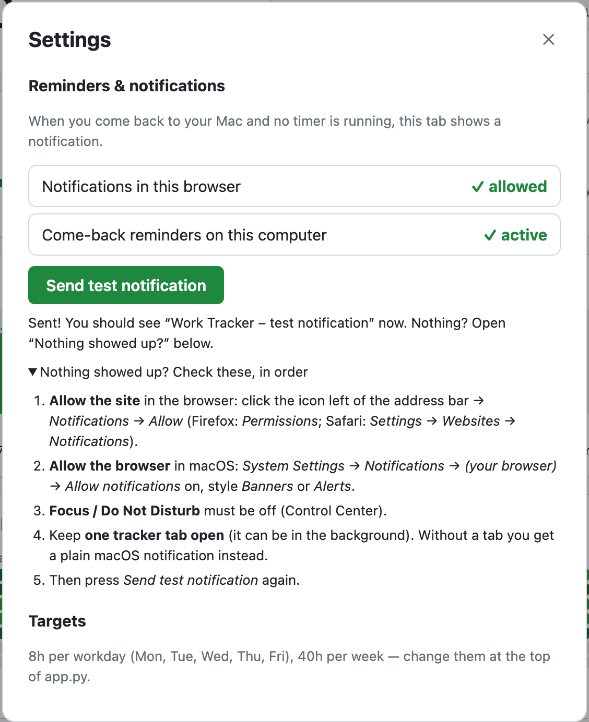
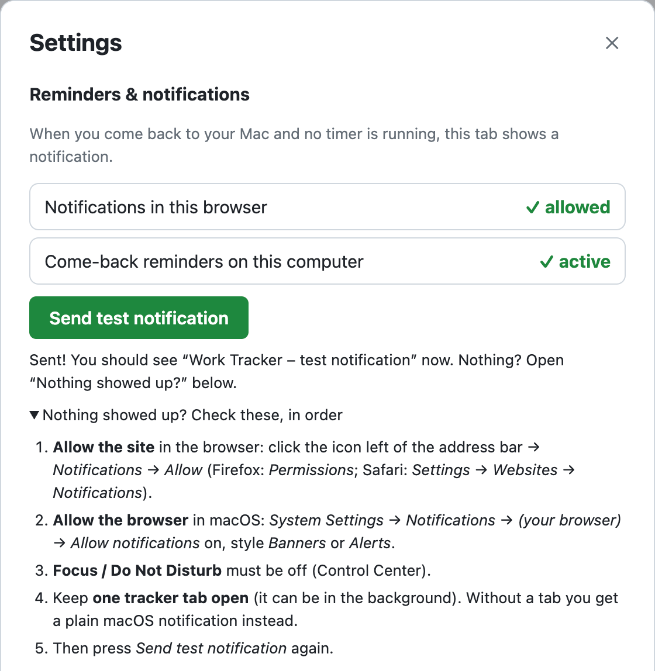
Work goals you can change from a date on; past days keep theirs
- targets table: one row per goal change (valid_from, daily seconds,
  workdays); the defaults in app.py apply before the first change.
- Every total uses the goal valid on that day: today, this week (sum of
  the week's days, so mid-week changes split correctly), overtime balance.
- Settings → Work goal: hours per week + workdays + start date (today or
  later), planned changes can be cancelled. GET/PUT /api/goals,
  DELETE /api/goals/<date>.
- 'This week' tile and balance hint no longer hard-code 40 h / 8 h.
- README: 'Change your work goal' section, updated tiles, config, API.

Changed region(s): [[0.0, 0.0, 1.0, 1.0]]

diff --git a/static/app.js b/static/app.js
@@ -120,7 +120,8 @@ function renderStatus() {
   // Week
   const weekSec = status.week_seconds + extra;
   $("week-worked").textContent = fmtDur(weekSec);
-  $("week-bar").style.width = Math.min(100, (weekSec / status.weekly_target) * 100) + "%";
+  $("week-target").textContent = hours(status.weekly_target);
+  $("week-bar").style.width = status.weekly_target ? Math.min(100, (weekSec / status.weekly_target) * 100) + "%" : "0";
   const weekLeft = status.weekly_target - weekSec;
   $("week-remaining").textContent = weekLeft > 0
     ? `${fmtDur(weekLeft)} left this week`
@@ -532,13 +533,72 @@ function renderSettings() {
   $("enable-notify").hidden = perm !== "default";
   // Nudge until notifications are set up.
   $("settings-btn").classList.toggle("attention", notifySupported && perm !== "granted");
-  if (status) {
-    const daily = Math.max(...status.week_days.map((d) => d.target));
-    const days = status.week_days.map((d, i) => (d.target ? DAY_NAMES[i] : null)).filter(Boolean);
-    $("targets").textContent = `${fmtDur(daily).replace(" 00m", "")} per workday (${days.join(", ")}), `
-      + `${fmtDur(status.weekly_target).replace(" 00m", "")} per week — change them at the top of app.py.`;
-  }
 }
+
+// ------------------------------------------------------------ settings (work goal)
+
+/** "8h", "7h 30m" */
+const hours = (sec) => fmtDur(sec).replace(" 00m", "");
+const goalText = (g) => `${hours(g.daily_seconds * g.workdays.length)} per week · `
+  + `${g.workdays.map((d) => DAY_NAMES[d]).join(", ")} · ${hours(g.daily_seconds)} per workday`;
+
+$("goal-days").innerHTML = DAY_NAMES.map((n, i) =>
+  `<label><input type="checkbox" value="${i}"> ${n}</label>`).join("");
+
+async function loadGoals() {
+  const goals = await api("GET", "/api/goals");
+  const today = status.today;
+  const current = goals.filter((g) => !g.valid_from || g.valid_from <= today).pop();
+  $("goal-current").innerHTML = `<b>Now:</b> ${goalText(current)}`;
+  const planned = $("goal-planned");
+  planned.innerHTML = "";
+  for (const g of goals.filter((g) => g.valid_from > today)) {
+    const li = document.createElement("li");
+    li.innerHTML = `<span>From ${fmtLongDate(parseYmd(g.valid_from))}: ${goalText(g)}</span>`;
+    const cancel = document.createElement("button");
+    cancel.type = "button";
+    cancel.className = "btn link";
+    cancel.textContent = "Cancel";
+    cancel.onclick = async () => { await api("DELETE", `/api/goals/${g.valid_from}`); await goalsChanged(); };
+    li.appendChild(cancel);
+    planned.appendChild(li);
+  }
+  // Prefill the form with the current goal, starting today.
+  $("goal-hours").value = (current.daily_seconds * current.workdays.length) / 3600;
+  $("goal-days").querySelectorAll("input").forEach((c) => (c.checked = current.workdays.includes(Number(c.value))));
+  $("goal-from").value = $("goal-from").min = today;
+  $("goal-error").textContent = "";
+  goalHint();
+}
+
+function goalHint() {
+  const days = $("goal-days").querySelectorAll("input:checked").length;
+  const h = Number($("goal-hours").value);
+  $("goal-hint").textContent = days && h
+    ? `= ${hours((h * 3600) / days)} per workday. Applies from the start date on — past days keep the goal they had.`
+    : "Pick the hours and at least one workday.";
+}
+$("goal-form").addEventListener("input", goalHint);
+
+async function goalsChanged() {
+  await refreshAll();  // today, week and overtime use the new goal
+  await loadGoals();
+}
+
+$("goal-form").addEventListener("submit", async (e) => {
+  e.preventDefault();
+  try {
+    await api("PUT", "/api/goals", {
+      valid_from: $("goal-from").value,
+      weekly_hours: Number($("goal-hours").value),
+      workdays: [...$("goal-days").querySelectorAll("input:checked")].map((c) => Number(c.value)),
+    });
+    await goalsChanged();
+    $("goal-hint").textContent = "Saved ✓ " + $("goal-hint").textContent;
+  } catch (err) {
+    $("goal-error").textContent = err.message;
+  }
+});
 
 async function enableNotifications() {
   if (notifySupported && Notification.permission === "default") await Notification.requestPermission();
@@ -548,6 +608,7 @@ async function enableNotifications() {
 
 $("settings-btn").addEventListener("click", () => {
   renderSettings();
+  loadGoals();
   $("test-result").textContent = "";
   $("settings").showModal();
 });

diff --git a/static/index.html b/static/index.html
@@ -37,14 +37,14 @@
       </div>
       <div class="card stat">
         <div class="label">This week</div>
-        <div class="value"><span id="week-worked">0h 00m</span> <span class="muted">/ 40h</span></div>
+        <div class="value"><span id="week-worked">0h 00m</span> <span class="muted">/ <span id="week-target">40h</span></span></div>
         <div class="bar"><div id="week-bar"></div></div>
         <div class="muted small" id="week-remaining"></div>
       </div>
       <div class="card stat">
         <div class="label">Overtime balance</div>
         <div class="value" id="balance">±0h 00m</div>
-        <div class="muted small">All days before today vs. 8h per workday</div>
+        <div class="muted small">All days before today vs. your work goal</div>
       </div>
       <div class="card stat">
         <div class="label">Overtime incl. today</div>
@@ -122,8 +122,20 @@
       </ol>
     </details>
 
-    <h3>Targets</h3>
-    <p class="small muted" id="targets"></p>
+    <h3>Work goal</h3>
+    <p class="small" id="goal-current"></p>
+    <ul id="goal-planned" class="checklist"></ul>
+    <form id="goal-form" class="goal-form">
+      <label>Hours per week <input type="number" id="goal-hours" min="1" max="168" step="0.25" required></label>
+      <fieldset>
+        <legend>Workdays</legend>
+        <div id="goal-days"></div>
+      </fieldset>
+      <label>Starting <input type="date" id="goal-from" required></label>
+      <button class="btn start">Save goal</button>
+    </form>
+    <p class="small muted" id="goal-hint"></p>
+    <p class="small error" id="goal-error"></p>
   </dialog>
 
   <div id="tooltip" class="tooltip" hidden></div>

diff --git a/static/style.css b/static/style.css
@@ -209,3 +209,13 @@ input, select {
 .settings-actions { display: flex; gap: 8px; flex-wrap: wrap; }
 #test-result { min-height: 1.5em; margin: 8px 0; }
 #notify-help ol { padding-left: 20px; margin: 8px 0; display: grid; gap: 4px; }
+.goal-form { display: grid; gap: 10px; margin: 8px 0 4px; }
+.goal-form label { display: flex; align-items: center; gap: 10px; }
+.goal-form input[type="number"] { width: 90px; }
+.goal-form input[type="date"] { width: auto; }
+.goal-form fieldset { border: 1px solid var(--border); border-radius: 8px; padding: 6px 12px 10px; margin: 0; }
+.goal-form legend { padding: 0 4px; font-size: 13px; color: var(--muted); }
+#goal-days { display: flex; flex-wrap: wrap; gap: 4px 14px; }
+#goal-days label { gap: 4px; }
+#goal-days input { width: auto; }
+.goal-form .btn { justify-self: start; }

diff --git a/app.py b/app.py
@@ -16,8 +16,8 @@ from flask import Flask, g, jsonify, request
 BASE_DIR = os.path.dirname(os.path.abspath(__file__))
 DB_PATH = os.environ.get("TRACKER_DB", os.path.join(BASE_DIR, "tracker.db"))
 
+# Default work goal; it applies to all days before the first change made in Settings → Work goals.
 DAILY_TARGET = 8 * 3600       # seconds per workday
-WEEKLY_TARGET = 40 * 3600     # seconds per week
 WORKDAYS = {0, 1, 2, 3, 4}    # Monday..Friday
 
 app = Flask(__name__, static_folder="static", static_url_path="")
@@ -56,6 +56,12 @@ def init_db():
                 start_time  TEXT NOT NULL,          -- last keyboard/trackpad input before leaving
                 end_time    TEXT NOT NULL,          -- when you were back
                 reason      TEXT NOT NULL           -- sleep | lock | display-off
+            );
+            -- Work goal changes: from valid_from on, daily_seconds on each of the workdays.
+            CREATE TABLE IF NOT EXISTS targets (
+                valid_from    TEXT PRIMARY KEY,     -- YYYY-MM-DD
+                daily_seconds INTEGER NOT NULL,
+                workdays      TEXT NOT NULL         -- weekday digits, Monday = 0, e.g. "01234"
             );
             """
         )
@@ -114,13 +120,23 @@ def daily_totals(first: date, last: date) -> dict:
     return totals
 
 
-def expected_seconds(first: date, last: date) -> int:
-    """Target seconds for all workdays in [first, last]."""
-    if last < first:
-        return 0
-    days = (last - first).days + 1
-    workdays = sum(1 for i in range(days) if (first + timedelta(days=i)).weekday() in WORKDAYS)
-    return workdays * DAILY_TARGET
+def goal_table() -> list:
+    """[(valid_from, daily_seconds, workdays)], oldest first; the defaults apply before any change."""
+    rows = get_db().execute("SELECT * FROM targets ORDER BY valid_from").fetchall()
+    return [(date.min, DAILY_TARGET, WORKDAYS)] + [
+        (parse_day(r["valid_from"]), r["daily_seconds"], {int(c) for c in r["workdays"]}) for r in rows
+    ]
+
+
+def day_target(day: date, table: list) -> int:
+    """Target seconds for one day under the goal that was valid on that day."""
+    _, daily, workdays = next(g for g in reversed(table) if g[0] <= day)
+    return daily if day.weekday() in workdays else 0
+
+
+def expected_seconds(first: date, last: date, table: list) -> int:
+    """Target seconds for all days in [first, last]."""
+    return sum(day_target(first + timedelta(days=i), table) for i in range((last - first).days + 1))
 
 
 def running_session():
@@ -154,7 +170,10 @@ def status():
     week = daily_totals(monday, monday + timedelta(days=6))
     today_s = week.get(today.isoformat(), 0)
     week_s = sum(week.values())
-    today_target = DAILY_TARGET if today.weekday() in WORKDAYS else 0
+    goals = goal_table()
+    today_target = day_target(today, goals)
+    week_targets = [day_target(monday + timedelta(days=i), goals) for i in range(7)]
+    weekly_target = sum(week_targets)
 
     # Overtime balance: everything worked before today vs. target before today.
     first_row = db.execute("SELECT MIN(start_time) FROM sessions").fetchone()[0]
@@ -166,25 +185,25 @@ def status():
         yesterday = today - timedelta(days=1)
         if first_day <= yesterday:
             worked = sum(daily_totals(first_day, yesterday).values())
-            balance = worked - expected_seconds(first_day, yesterday)
+            balance = worked - expected_seconds(first_day, yesterday, goals)
 
     run = running_session()
     return jsonify({
         "now": fmt(datetime.now()),
         "today": today.isoformat(),
         "daily_target": today_target,
-        "weekly_target": WEEKLY_TARGET,
+        "weekly_target": weekly_target,
         "today_seconds": today_s,
         "week_seconds": week_s,
         "today_remaining": max(0, today_target - today_s),
-        "week_remaining": max(0, WEEKLY_TARGET - week_s),
+        "week_remaining": max(0, weekly_target - week_s),
         "balance_seconds": balance,
         "first_year": first_year,
         "week_days": [
             {
                 "date": (monday + timedelta(days=i)).isoformat(),
                 "seconds": week.get((monday + timedelta(days=i)).isoformat(), 0),
-                "target": DAILY_TARGET if i in WORKDAYS else 0,
+                "target": week_targets[i],
             }
             for i in range(7)
         ],
@@ -193,6 +212,55 @@ def status():
         "reminder_kind": reminder_kind,
         "watcher": watcher_running,
     })
+
+
+@app.get("/api/goals")
+def get_goals():
+    """All goal periods: the defaults (valid_from null) and every change, oldest first."""
+    return jsonify([
+        {"valid_from": None if start == date.min else start.isoformat(), "daily_seconds": daily,
+         "workdays": sorted(workdays)}
+        for start, daily, workdays in goal_table()
+    ])
+
+
+@app.put("/api/goals")
+def set_goal():
+    """New goal from valid_from (today or later) on. Past days keep the goal they had."""
+    data = request.get_json(silent=True) or {}
+    try:
+        start = parse_day(data["valid_from"])
+        workdays = sorted({int(d) for d in data["workdays"]})
+        weekly = float(data["weekly_hours"])
+    except (KeyError, TypeError, ValueError):
+        return bad_request("valid_from (YYYY-MM-DD), weekly_hours and workdays (0 = Monday) are required.")
+    if start < date.today():
+        return bad_request("Goals can only change from today on — past days keep the goal they had.")
+    if not workdays or not all(0 <= d <= 6 for d in workdays):
+        return bad_request("Pick at least one workday.")
+    daily = round(weekly * 3600 / len(workdays))
+    if not 0 < daily <= 24 * 3600:
+        return bad_request("That's not a possible number of hours.")
+    db = get_db()
+    db.execute("INSERT OR REPLACE INTO targets VALUES (?, ?, ?)",
+               (start.isoformat(), daily, "".join(map(str, workdays))))
+    db.commit()
+    return get_goals()
+
+
+@app.delete("/api/goals/<valid_from>")
+def delete_goal(valid_from):
+    """Cancel a goal change that hasn't started yet."""
+    try:
+        start = parse_day(valid_from)
+    except ValueError:
+        return bad_request("Use YYYY-MM-DD.")
+    if start <= date.today():
+        return bad_request("Only changes that start in the future can be cancelled.")
+    db = get_db()
+    db.execute("DELETE FROM targets WHERE valid_from = ?", (valid_from,))
+    db.commit()
+    return get_goals()
 
 
 @app.post("/api/start")

diff --git a/README.md b/README.md
@@ -15,7 +15,7 @@
 </p>
 
 A small, self-hosted work-time tracker. Start and stop a timer, see how much you've worked today and
-this week against an 8 h / 40 h target, keep an overtime balance, and browse your history in a
+this week against your work goal (40 h a week by default — change it any time), keep an overtime balance, and browse your history in a
 GitHub-style heatmap. On macOS it can also start at login, remind you to start the timer when you
 come back to your laptop, and live in the menu bar.
 
@@ -33,6 +33,7 @@ Everything runs locally: one Python process, one SQLite file, no accounts, no cl
   6. [Menu bar item](#step-6--menu-bar-item-macos-optional) *(macOS, optional)*
 - [Daily use](#daily-use)
   - [Track your time](#track-your-time) · [Read your stats](#read-your-stats) ·
+    [Change your work goal](#change-your-work-goal) ·
     [Fix and add entries](#fix-and-add-entries) · [Add a lunch break](#add-a-lunch-break) ·
     [Forgot to stop the timer?](#forgot-to-stop-the-timer)
 - [Configuration](#configuration)
@@ -56,6 +57,7 @@ Everything runs locally: one Python process, one SQLite file, no accounts, no cl
 | ✏ | **Day view**: add, edit, delete sessions; **breaks** (e.g. lunch) that don't count as work | all |
 | 🕒 | **Timeline per session**: when the Mac was in use vs. away; click any time to use it as start, end or break | all¹ |
 | 🔔 | **Come-back reminder**: notification when you return to the Mac and no timer is running | macOS |
+| 🎯 | **Work goal** you can change from any date on (e.g. 32 h on Mon–Thu) — past days keep theirs | all |
 | ⚙ | **Settings** with a setup checklist and **Send test notification** | all |
 | 🚀 | **Start at login** via a LaunchAgent | macOS |
 | 🍏 | **Menu bar item** (SwiftBar plugin): running time, Start / Stop, today's stats | macOS |
@@ -234,14 +236,28 @@ time.
 
 | Tile | Meaning |
 |---|---|
-| **Today** | Worked today vs. the daily target (0 h on weekends). While running: when you'll reach the target. |
-| **This week** | Worked Monday–Sunday vs. 40 h. |
-| **Overtime balance** | Everything worked *before today* vs. 8 h per workday, since your first entry. |
+| **Today** | Worked today vs. today's goal (0 h on days off). While running: when you'll reach it. |
+| **This week** | Worked Monday–Sunday vs. this week's goal. |
+| **Overtime balance** | Everything worked *before today* vs. the goal that was valid on each of those days, since your first entry. |
 | **Overtime incl. today** | The balance plus today so far minus today's target — where you'd stand if you stopped now. |
 
-**This week** shows one bar per day (the dashed line is the target). The **heatmap** shows the last
+**This week** shows one bar per day (the dashed line is that day's goal). The **heatmap** shows the last
 12 months or any year from the dropdown; darker = more hours. Hover a day for its total, click it to
 open it in the day view.
+
+### Change your work goal
+
+Working fewer (or more) hours from some date on? Open **⚙ Settings → Work goal**:
+
+1. Enter your **hours per week**.
+2. Tick your **workdays** — the hours are split evenly across them (32 h on Mon–Thu = 8 h per workday).
+3. Pick the date it **starts** (today or later) and press **Save goal**.
+
+<p align="center"><img src="docs/goals.png" alt="Work goal settings: current goal, a planned change from 2 November, and the form" width="460"></p>
+
+Past days always keep the goal they had, so your overtime balance doesn't jump. A change that starts
+in the future shows up as *planned* and can be cancelled until then. A change in the middle of a week
+counts the old goal for the days before and the new one from that day on.
 
 ### Fix and add entries
 
@@ -289,7 +305,7 @@ yesterday's mistake without the database growing.
 
 | What | Where | Default |
 |---|---|---|
-| Daily / weekly target, workdays | `DAILY_TARGET`, `WEEKLY_TARGET`, `WORKDAYS` at the top of `app.py` | 8 h, 40 h, Mon–Fri |
+| Work goal (hours per week, workdays) | **⚙ Settings → Work goal**, from any date on. `DAILY_TARGET` / `WORKDAYS` at the top of `app.py` are the defaults for days before your first change. | 40 h, Mon–Fri |
 | Port | `PORT` environment variable | `47474` |
 | Database file | `TRACKER_DB` environment variable | `tracker.db` next to `app.py` |
 | Come-back watcher (reminders + away tracking) | `WAKE_PROMPT=0` disables it | on (macOS only) |
@@ -345,6 +361,7 @@ flowchart LR
 |---|---|---|
 | `sessions` | `id`, `start_time`, `end_time` (NULL while running), `note` | indexed by `start_time` |
 | `away` | `start_time`, `end_time`, `reason` (`sleep` · `lock` · `display-off`) | only rows overlapping the last 3 sessions are kept |
+| `targets` | `valid_from`, `daily_seconds`, `workdays` | one row per goal change; before the first row the defaults apply |
 
 **API**
 
@@ -352,6 +369,8 @@ flowchart LR
 |---|---|
 | `GET /api/status` | Everything for the tiles: today, week, balance, running session, `last_reminder`, `watcher` |
 | `POST /api/test-notification` | Settings → *Send test notification* (same path as a real reminder) |
+| `GET /api/goals` · `PUT /api/goals` | Work goal periods; set a new goal from today or a later date on |
+| `DELETE /api/goals/<date>` | Cancel a goal change that hasn't started yet |
 | `POST /api/start` · `POST /api/stop` | Start / stop the timer (optional `note`) |
 | `GET /api/days?from=…&to=…` | Seconds per day, for the heatmap |
 | `GET /api/sessions?date=…` | Sessions of a day, each with its `away` periods |
